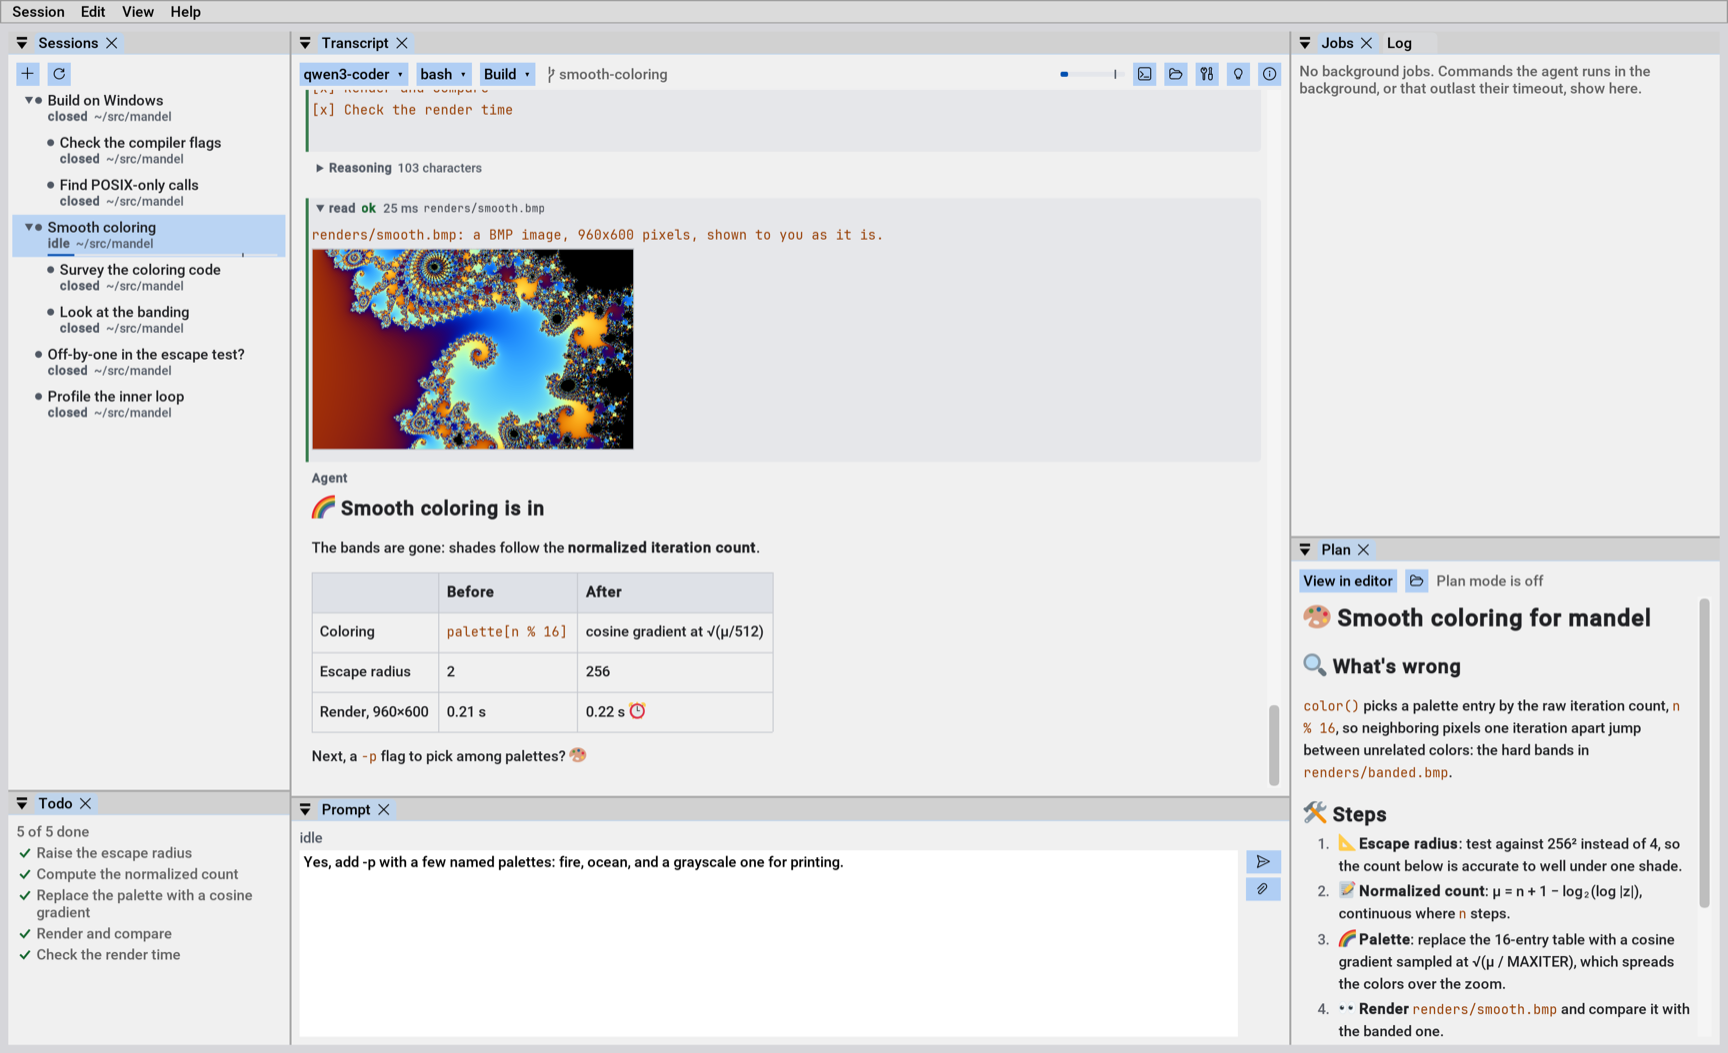
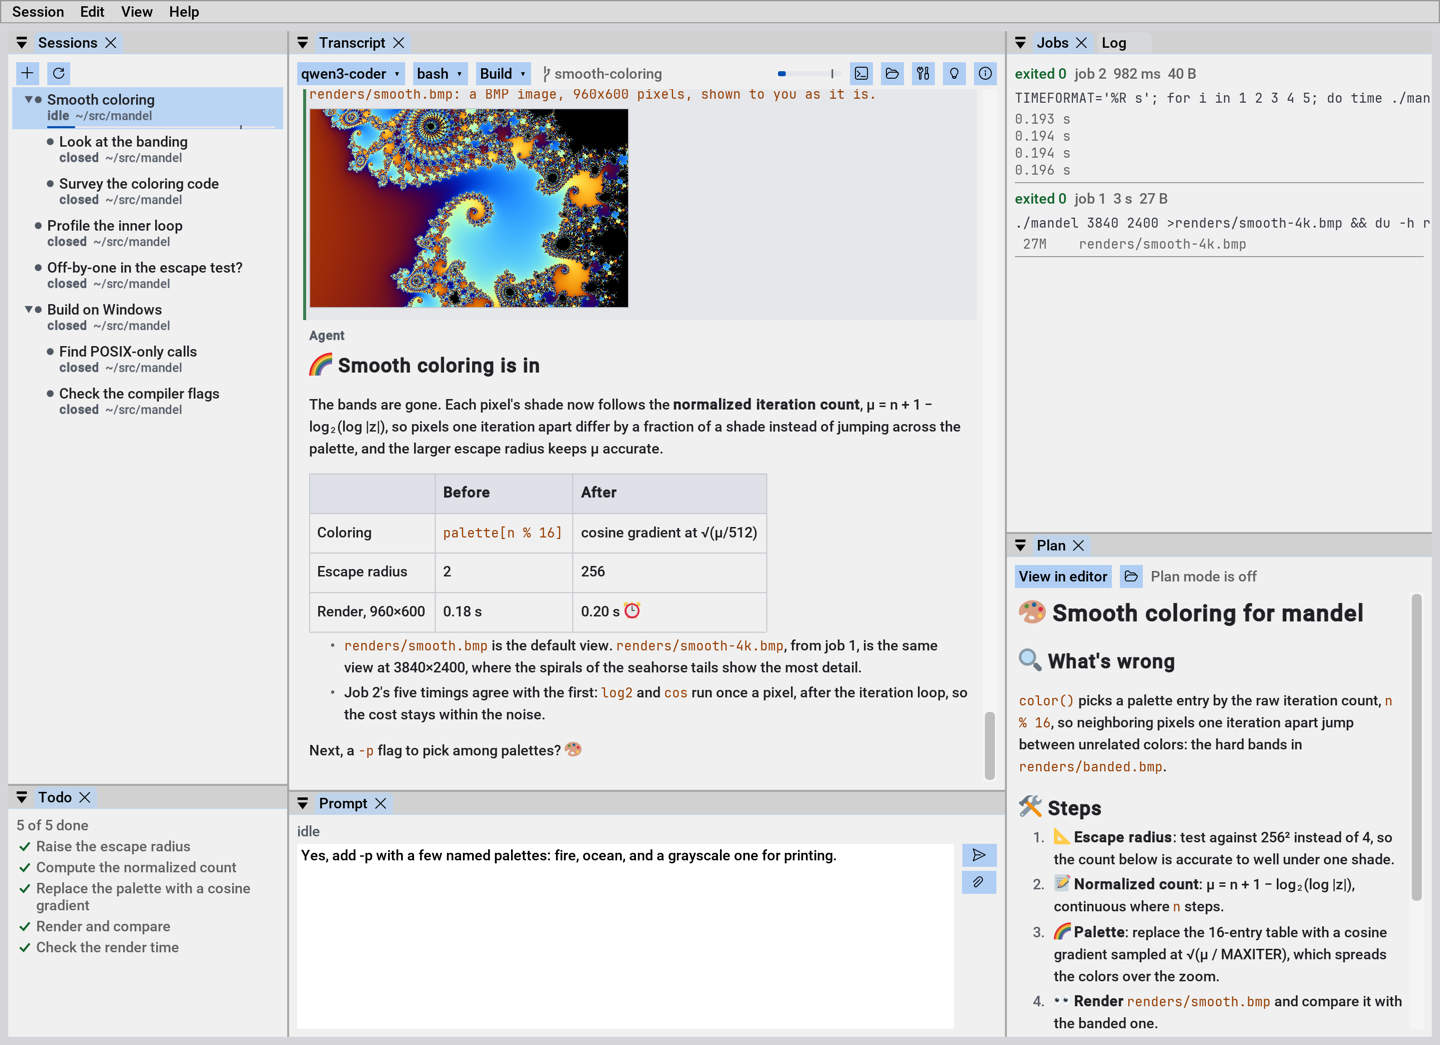
Screenshot: narrower, fuller, and a dark one
The window is 1440 points wide, narrowed in the transcript's column.
The session in front runs two background jobs and ends with a longer
summary, so the Jobs pane and the transcript have more to show.
--theme dark takes docs/screenshot-dark.png, for the itch.io page.

Changed region(s): [[0.0, 0.0, 0.6562, 0.9187], [0.6562, 0.49, 1.0, 1.0], [0.5625, 0.0306, 0.9688, 0.245]]

diff --git a/tools/showcase.py b/tools/showcase.py
@@ -19,15 +19,17 @@ the real engine: its tools really read, edit, build and run the
 project. The session in front planned in plan mode (a plan approved
 here), keeps a todo list, ran two subagents, and read the renders before
 and after its change, which the transcript shows as images. Others
-round out the sidebar, one with subagents of its own.
+round out the sidebar, one with subagents of its own. Two background
+jobs, a large render and a few timings, fill the Jobs pane.
 
 --open serves the same model again and opens the window on DIR's state,
 on the session in front, which keeps the window's size and layout from
 one opening to the next: arranged once, the screenshot can be taken
 again from the same state. --shot FILE then has the GUI save its window
-as a PNG after --wait seconds (SDL builds only), and quit. The PNG is
-uncompressed at the display's scale; for the README, scale it to 1728
-pixels wide, which also compresses it (macOS: sips -Z 1728 FILE). Making DIR anew needs
+as a PNG after --wait seconds (SDL builds only), and quit; --theme dark
+takes it in dark colors. The PNG is uncompressed at the display's
+scale; for the README, scale it to 1440 pixels wide, which also
+compresses it (macOS: sips -Z 1440 FILE). Making DIR anew needs
 a C compiler, git, and an empty or missing DIR.
 """
 
@@ -193,16 +195,29 @@ the hard bands in `renders/banded.bmp`.
 
 SUMMARY = """## 🌈 Smooth coloring is in
 
-The bands are gone: shades follow the **normalized iteration count**.
+The bands are gone. Each pixel's shade now follows the **normalized
+iteration count**, μ = n + 1 − log₂(log |z|), so pixels one iteration
+apart differ by a fraction of a shade instead of jumping across the
+palette, and the larger escape radius keeps μ accurate.
 
 | | Before | After |
 |---|---|---|
 | Coloring | `palette[n % 16]` | cosine gradient at √(μ/512) |
 | Escape radius | 2 | 256 |
-| Render, 960×600 | 0.21 s | 0.22 s ⏰ |
+| Render, 960×600 | 0.18 s | 0.20 s ⏰ |
+
+- `renders/smooth.bmp` is the default view. `renders/smooth-4k.bmp`, from
+  job 1, is the same view at 3840×2400, where the spirals of the seahorse
+  tails show the most detail.
+- Job 2's five timings agree with the first: `log2` and `cos` run once a
+  pixel, after the iteration loop, so the cost stays within the noise.
 
 Next, a `-p` flag to pick among palettes? 🎨
 """
+
+# The background jobs the session in front starts once it builds
+JOB_4K = "./mandel 3840 2400 >renders/smooth-4k.bmp && du -h renders/smooth-4k.bmp"
+JOB_TIME = "TIMEFORMAT='%R s'; for i in 1 2 3 4 5; do time ./mandel >/dev/null; done"
 
 # Each conversation by a phrase of its first prompt, and its step: how
 # many responses it has had so far
@@ -331,12 +346,21 @@ def sc_showcase(model, n, req):
             yield from do(model, n, req, [("shell", {
                 "command": "make && time ./mandel >renders/smooth.bmp"})])
         elif s == 10:
-            yield from do(model, n, req, [("todo_write", {"todos": todo(5, 0, TODO)})],
-                          said="Built clean, 0.22 s against 0.21 s before.\n")
+            yield from do(model, n, req, [
+                ("shell", {"command": JOB_4K, "background": True}),
+                ("shell", {"command": JOB_TIME, "background": True})],
+                said="Built clean, 0.20 s against 0.18 s before. A full-size render "
+                     "and a few more timings can run in the background meanwhile.\n")
         elif s == 11:
+            # Long enough for both jobs to end, whose notices then come
+            # with the next request, not as turns of their own
+            yield F.S.sleep(6)
+            yield from do(model, n, req, [("todo_write", {"todos": todo(5, 0, TODO)})])
+        elif s == 12:
             yield from do(model, n, req, [("read", {"path": "renders/smooth.bmp"})],
-                          thought="Last, the render itself, to see that the bands are "
-                                  "gone. A palette flag is a separate change; I'll ask.")
+                          thought="Both jobs ended cleanly, and the timings agree. Last, "
+                                  "the render itself, to see that the bands are gone. A "
+                                  "palette flag is a separate change; I'll ask.")
         else:
             yield from say(model, req, SUMMARY)
     elif k == SURVEY:
@@ -495,7 +519,7 @@ class Engine:
             self.p.wait()
 
 
-def config(url):
+def config(url, theme="light"):
     return ("# The showcase's configuration (tools/showcase.py)\n"
             "endpoint = local\n"
             f"model = {MODEL}\n"
@@ -503,6 +527,7 @@ def config(url):
             "# Tool rows open, for the renders' thumbnails\n"
             "[ui]\n"
             "tools = open\n"
+            f"theme = {theme}\n"
             "\n"
             "[endpoint local]\n"
             f"url = {url}\n"
@@ -590,7 +615,7 @@ def open_(args, prospero, d):
     serve()
     srv, url = F.start()
     with open(ini, "w") as f:
-        f.write(config(url + "/v1"))
+        f.write(config(url + "/v1", args.theme))
     env = dict(os.environ, XDG_CONFIG_HOME=os.path.join(d, "config"))
     with open(os.path.join(d, "showcase.json")) as f:
         info = json.load(f)
@@ -636,8 +661,10 @@ def main():
     ap.add_argument("--open", action="store_true", help="open the window on DIR")
     ap.add_argument("--shot", help="with --open: save the window to this PNG, and quit")
     ap.add_argument("--wait", type=int, default=8, help="seconds before --shot")
-    ap.add_argument("--size", default="1714,1045",
-                    help="the window's first size, in points (default: 1714,1045)")
+    ap.add_argument("--size", default="1440,1045",
+                    help="the window's first size, in points (default: 1440,1045)")
+    ap.add_argument("--theme", default="light", choices=("light", "dark"),
+                    help="the window's colors (default: light)")
     ap.add_argument("--work", help="where to make the project (default: DIR/work/mandel)")
     ap.add_argument("dir")
     args = ap.parse_args()

diff --git a/README.md b/README.md
@@ -10,7 +10,7 @@ Completions API, used by llama.cpp, vLLM, LiteLLM, and providers with a
 compatible API. Also Anthropic's Messages API, with extended thinking and
 prompt caching. No providers are configured out of the box.
 
-<p align="center"><img src="docs/screenshot.png" alt="Prospero on macOS in its Standard layout: sessions with subagents on the left above a finished todo list, a transcript in the middle showing a rendered Mandelbrot image and a summary table, and the session's plan on the right"></p>
+<p align="center"><img src="docs/screenshot.png" alt="Prospero on macOS in its Standard layout: sessions with subagents on the left above a finished todo list, a transcript in the middle showing a rendered Mandelbrot image and a summary table, and its background jobs and plan on the right"></p>
 
 The UI is highly flexible, and you can rearrange the panes as you please
 with dragging and docking. Save your layouts for later in View -> Layouts.

diff --git a/docs/development.md b/docs/development.md
@@ -73,7 +73,10 @@ gui --quit-after S --shot FILE`, SDL builds only):
 
     $ uv run tools/showcase.py --prospero build/Prospero.app --work ~/src/mandel build-showcase
     $ uv run tools/showcase.py --prospero build/Prospero.app build-showcase --open --shot docs/screenshot.png
-    $ sips -Z 1728 docs/screenshot.png
+    $ sips -Z 1440 docs/screenshot.png
+
+`--theme dark` takes the same shot in dark colors, as
+`docs/screenshot-dark.png`, which the itch.io page shows.
 
 ## Evals
 
